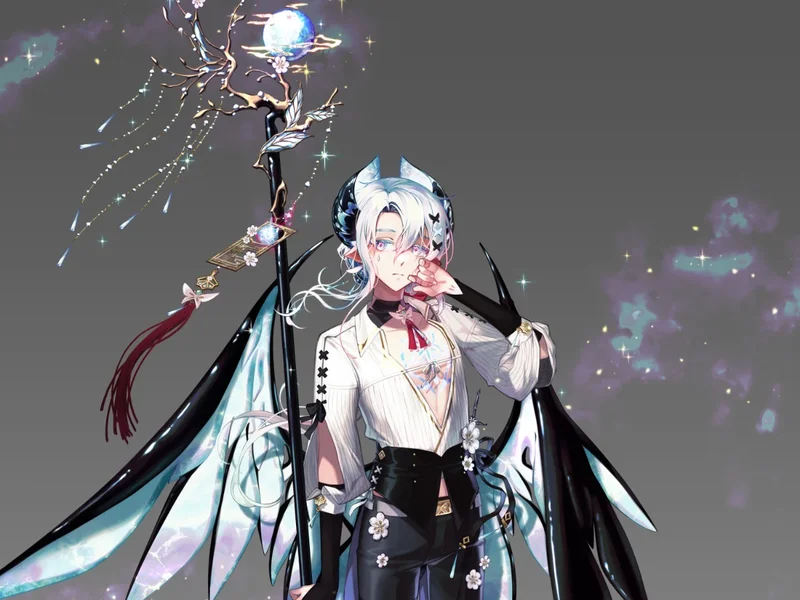
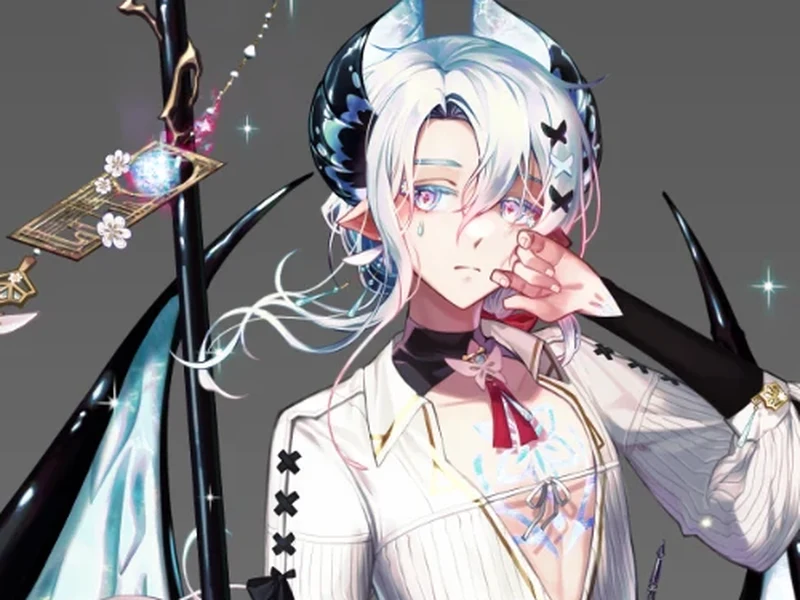
portfolio: 캐릭터 원화 썸네일 캐릭터 크게 · 돋보기 바는 마우스를 올렸을 때만
Claude-Session: https://claude.ai/code/session_01KNxXTwysthCR3yripsWerF

diff --git a/index.html b/index.html
@@ -899,6 +899,9 @@ img.ppage__img{display:block;}
 .gzoom{position:sticky;top:72px;z-index:5;justify-self:center;display:flex;align-items:center;gap:8px;padding:6px 12px;border-radius:999px;
   background:var(--surface);border:1px solid var(--ash);box-shadow:var(--sh-card);color:var(--slate);}
 .gzoom__r{width:min(280px,46vw);accent-color:var(--violet);}
+.gzoom{opacity:0;transition:opacity .2s ease;}
+.gallery:hover .gzoom,.gzoom:focus-within{opacity:1;}   /* 마우스를 올렸을 때만 보임 */
+@media (hover:none){.gzoom{opacity:1;}}   /* 터치 기기는 항상 */
 .gzoom__b{width:28px;height:28px;border-radius:50%;border:1px solid var(--ash);background:var(--cloud);font-size:16px;line-height:1;color:var(--graphite);}
 .gzoom__b:hover{border-color:var(--violet);color:var(--violet);}
 .gzoom__v{min-width:44px;text-align:right;font-size:13px;font-weight:600;font-variant-numeric:tabular-nums;color:var(--violet-deep);}
@@ -1322,7 +1325,7 @@ var CONTENT = {
     /* 아트 작업물 — 3열 (데이터 키는 기존 그대로 ai) */
     ai: [
       { id: 'art-chara', title: '캐릭터 원화 (개인작)', tagline: '개인 작업 캐릭터 원화 일러스트', kind: 'image',
-        thumb: 'assets/images/art/chara-thumb.webp', tags: ['캐릭터', '원화', '개인작'],
+        thumb: 'assets/images/art/chara-thumb.webp?v=2', tags: ['캐릭터', '원화', '개인작'],
         images: [ { src: 'assets/images/art/chara-01.webp' }, { src: 'assets/images/art/chara-02.webp' }, { src: 'assets/images/art/chara-03.webp' },
                   { src: 'assets/images/art/chara-04.webp' }, { src: 'assets/images/art/chara-05.webp' } ] },
       SAMPLE_ART('sample-art-2', '샘플 아트 작업물 2'),
